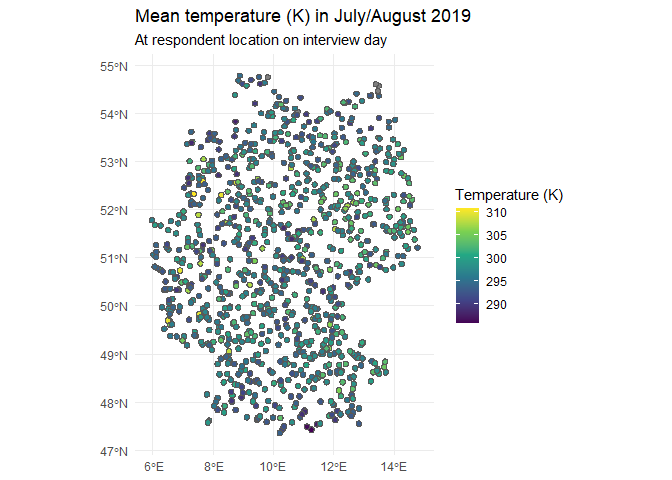
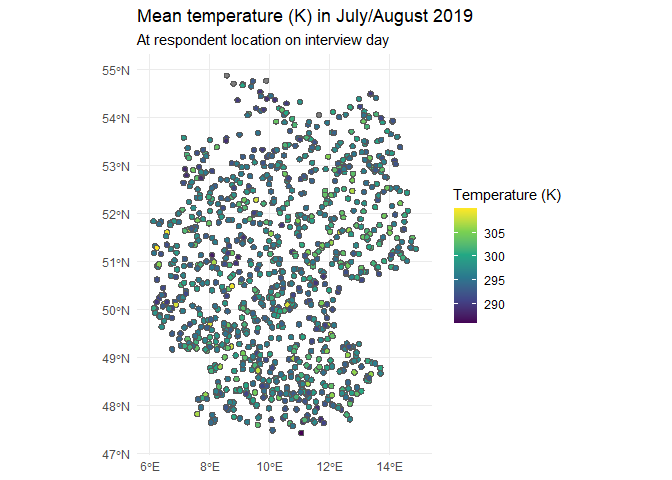
README update

diff --git a/README.md b/README.md
@@ -8,7 +8,7 @@ Active](https://www.repostatus.org/badges/latest/active.svg)](https://www.repost
 [![pkgcheck](https://github.com/denabel/gxc/workflows/pkgcheck/badge.svg)](https://github.com/denabel/gxc/actions?query=workflow%3Apkgcheck)
 -->
 
-# gxc: Easy access to Earth observation data 🌎
+# gxc: Easy access to Earth observation data 🌐
 
 ## Description
 
@@ -50,8 +50,9 @@ five major levers: **indicator type**, **indicator intensity**, **focal
 time period**, **baseline time period**, and **spatial buffer**.
 Flexibility on these five attributes should be maximized for users.
 Thus, the tool offers the functionality to automatically derive
-**spatio-temporal links** with other georeferenced data (e.g., surveys,
-digital behavioral data).
+**spatio-temporal links** with other georeferenced data typically used
+in the social sciences, like surveys, digital behavioral data or
+socio-economic indicators.
 
 <img src="man/figures/attribute_tree.PNG" align="center" height="400"/>
 
@@ -128,14 +129,30 @@ availability of EO data. A noteworthy study by [Hoffmann et
 al. (2022)](https://doi.org/10.1038/s41558-021-01263-8), for example,
 analyses how the experience of climate anomalies and extremes influences
 environmental attitudes and vote intention in Europe by integrating
-climatological, survey, and parliamentary data.
+**climatological, survey, and parliamentary data**.
 
-Economists and social scientists who study **economic development and
-inequality** exploit EO data in various forms to operationalize
-independent variables such as drivers and barriers to development
-(e.g. droughts) as well as dependent variables (e.g. night lights as
-proxies for economic activity or the quality of rooftops as development
-indicator). [García-León et
+**Digital behavioral data**, like posts on social media, online-search
+behavior and other forms of digital traces are increasingly
+georeferenced and/or include references to points of interest (POI).
+Having access to this location data advances the opportunities for
+linking these data points to EO indicators. “People as sensors” is
+increasingly popular in the social sciences to understand
+human-environment interactions. An early study by [Kirilenko et
+al. (2015)](https://doi.org/10.1016/j.gloenvcha.2014.11.003)
+investigates the relationship between temperature anomalies and tweets
+on climate change in the US. In the following years, the state of
+research was expanded to include case studies on Spain ([Mumenthaler et
+al. 2021](https://doi.org/10.1016/j.gloenvcha.2021.102286)) and the UK
+([Young et al. 2025](https://doi.org/10.1038/s41598-024-82384-w)), among
+others.
+
+Beyond environmental social sciences, there are other fields which
+benefit from EO data. Economists and social scientists who study
+**economic development and inequality** exploit EO data in various forms
+to operationalize independent variables such as drivers and barriers to
+development (e.g. droughts) as well as dependent variables (e.g. night
+lights as proxies for economic activity or the quality of rooftops as
+development indicator). [García-León et
 al. (2021)](https://doi.org/10.1038/s41467-021-26050-z), for example,
 investigate historical and future economic impacts of recent heatwaves
 in Europe and [Jean et
@@ -307,7 +324,10 @@ processed based on the different input formats.
 
 In this first example, we show how to utilize the
 `point_link_daily`-function from the `gxc`-package to integrate
-temperature data from ERA5 reanalysis for a set of spatial points.
+temperature data from ERA5 reanalysis for a set of spatial points. Let’s
+assume we have a series of georeferenced social media posts on climate
+change and we would like to understand how these are associated with
+temperature patterns at the person’s location.
 
 ### Package setup
 
@@ -329,11 +349,11 @@ library(gxc)
 
 ### Create sample point data
 
-Let’s assume we have a sample of survey respondents across Germany with
-a field period from July to August 2019. We would like to extend this
-dataset with temperature data from the specific interview day. We create
-a sample of random points based on a shapefile for Germany and add
-random day variables for the field period.
+Let’s assume we have a sample of social media posts across Germany
+covering the time period from July to August 2019. We would like to
+extend this dataset with temperature data from the specific day of the
+content post. We create a sample of random points based on a shapefile
+for Germany and add random day variables for the field period.
 
 ``` r
 # Get Germany's boundary as an sf object
@@ -415,22 +435,22 @@ head(dataset_out)
     ## Simple feature collection with 6 features and 5 fields
     ## Geometry type: POLYGON
     ## Dimension:     XY
-    ## Bounding box:  xmin: 8.06531 ymin: 48.02507 xmax: 12.55399 ymax: 53.42959
+    ## Bounding box:  xmin: 7.460223 ymin: 48.01906 xmax: 14.19563 ymax: 53.39013
     ## Geodetic CRS:  WGS 84
     ##                         geometry  date_raw  link_date link_date_end
-    ## 1 POLYGON ((12.1765 53.37603,...  2019-7-1 2019-07-01    2019-07-01
-    ## 2 POLYGON ((11.66142 50.71301... 2019-8-31 2019-08-31    2019-08-31
-    ## 3 POLYGON ((9.527877 52.19278... 2019-8-17 2019-08-17    2019-08-17
-    ## 4 POLYGON ((12.55399 52.67861... 2019-7-18 2019-07-18    2019-07-18
-    ## 5 POLYGON ((8.244973 48.08512... 2019-8-10 2019-08-10    2019-08-10
-    ## 6 POLYGON ((10.51061 49.60912...  2019-7-9 2019-07-09    2019-07-09
+    ## 1 POLYGON ((11.47029 53.33652...  2019-7-1 2019-07-01    2019-07-01
+    ## 2 POLYGON ((9.5949 48.83703, ... 2019-8-31 2019-08-31    2019-08-31
+    ## 3 POLYGON ((14.19563 51.20297... 2019-8-17 2019-08-17    2019-08-17
+    ## 4 POLYGON ((7.639886 49.35936... 2019-7-18 2019-07-18    2019-07-18
+    ## 5 POLYGON ((8.252682 48.74295... 2019-8-10 2019-08-10    2019-08-10
+    ## 6 POLYGON ((9.508703 48.07912...  2019-7-9 2019-07-09    2019-07-09
     ##   time_span_seq focal_value
-    ## 1    2019-07-01    296.6702
-    ## 2    2019-08-31    302.5078
-    ## 3    2019-08-17    294.6295
-    ## 4    2019-07-18    297.4707
-    ## 5    2019-08-10    295.1409
-    ## 6    2019-07-09    292.0959
+    ## 1    2019-07-01    297.0100
+    ## 2    2019-08-31    301.8491
+    ## 3    2019-08-17    297.4763
+    ## 4    2019-07-18    298.9077
+    ## 5    2019-08-10    297.4221
+    ## 6    2019-07-09    292.3762
 
 ``` r
 ggplot(data = dataset_out) +
